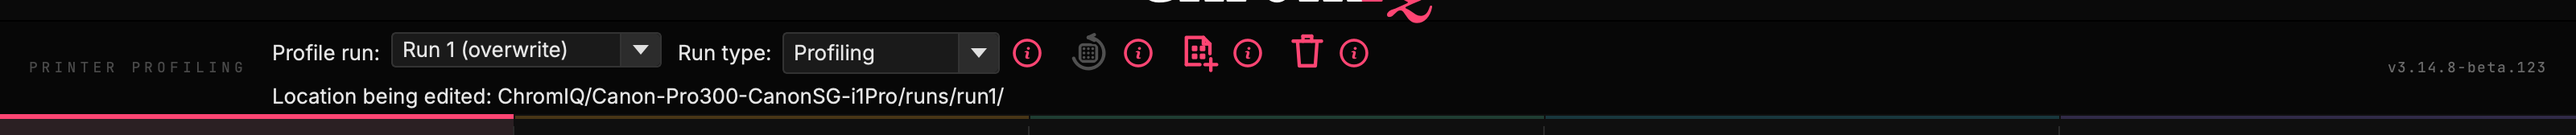
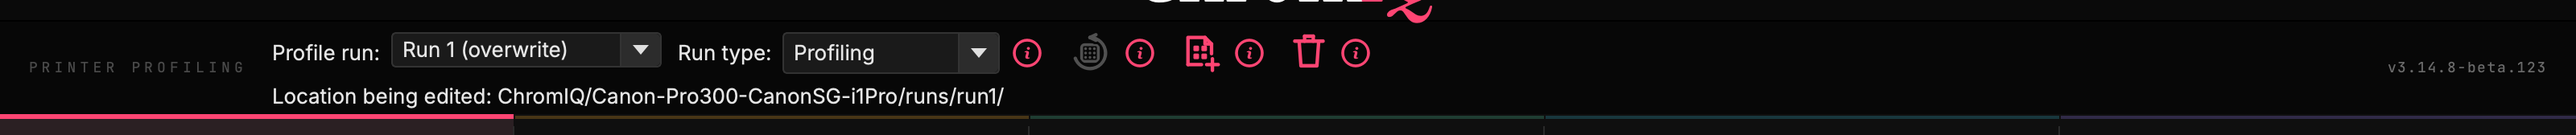
#130: move the cluster right with layout spacing, not another drawn pixel
The duplicate mark had reached the edge of its canvas at right 7 — measured, it
sat exactly on the boundary with nothing yet lost. One more DRAWN pixel would
have clipped it, which is the fault Basti has already caught twice.

So this pass is a real layout move: one pixel of spacing before the first of
the three pairs. A whole-group shift is a layout move by nature, and it cannot
clip because there is no canvas edge involved. The per-mark NUDGE values go on
doing what they are for — setting the marks' positions relative to ONE ANOTHER
— and CLUSTER_SHIFT moves all six together.

Nothing before the cluster is touched; the cluster and the hint after it move.

Changed region(s): [[0.4062, 0.2679, 0.5312, 0.506]]

diff --git a/ui/measurement_target_bar.py b/ui/measurement_target_bar.py
@@ -649,6 +649,14 @@ class MeasurementTargetBar(QWidget):
         # "The icons REPLACE the previous buttons totally… so that clicking the
         # icon functions as a button"), the same kind of widget as Create
         # Chart's "load profile" icon, at the height the text button had.
+        # The three action pairs move right as a GROUP by this much (#130,
+        # Basti 2026-08-03). Done as real spacing rather than another pixel of
+        # glyph offset: the duplicate mark had reached the edge of its canvas,
+        # so one more drawn pixel would have clipped it — and a whole-group
+        # shift is a layout move by nature. Nothing before this point is
+        # touched; only the cluster and the hint after it travel.
+        row.addSpacing(self.CLUSTER_SHIFT)
+
         from ui.bar_icons import restore_chart_button
         self._restore_btn = restore_chart_button(
             self._accent, tr("Restore Used Chart"), self)
@@ -864,6 +872,12 @@ class MeasurementTargetBar(QWidget):
             return
         self._locked = locked
         self._sync_from_controller()
+
+    #: How far right the three action pairs sit as a group, in pixels. Grown a
+    #: pixel at a time by eye (#130, Basti 2026-08-03). Kept apart from the
+    #: per-mark NUDGE values in ui/bar_icons.py, which set the marks' positions
+    #: RELATIVE to one another; this moves all of them together.
+    CLUSTER_SHIFT = 1
 
     _LOCK_NOTE = None       # built lazily so tr() runs after the language loads
 

diff --git a/tests/test_bar_sits_on_the_masthead_rail.py b/tests/test_bar_sits_on_the_masthead_rail.py
@@ -193,3 +193,22 @@ def test_the_bin_is_a_pixel_taller_at_the_bottom(qapp):
 def test_no_other_mark_is_stretched():
     from ui.bar_icons import BarIconButton
     assert BarIconButton.STRETCH_Y == 1.0
+
+
+def test_the_cluster_shift_is_layout_not_another_drawn_pixel(qapp):
+    """#130, Basti 2026-08-03: another pixel right for all six.
+
+    The duplicate mark had reached the edge of its canvas — one more DRAWN
+    pixel would have clipped it, which is the fault he had already caught twice.
+    A whole-group move is a layout move by nature, so it is real spacing: no
+    canvas, no edge, nothing to lose. The per-mark NUDGE values keep doing what
+    they are for — the marks' positions relative to one another.
+    """
+    import inspect
+    from ui.measurement_target_bar import MeasurementTargetBar
+    assert MeasurementTargetBar.CLUSTER_SHIFT >= 1
+    src = inspect.getsource(MeasurementTargetBar.__init__)
+    assert "row.addSpacing(self.CLUSTER_SHIFT)" in src
+    i = src.index("row.addSpacing(self.CLUSTER_SHIFT)")
+    assert "restore_chart_button" in src[i:i + 400], \
+        "the spacing must sit immediately before the first of the three pairs"
